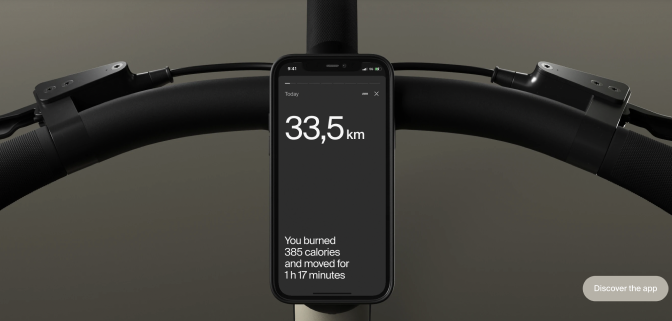
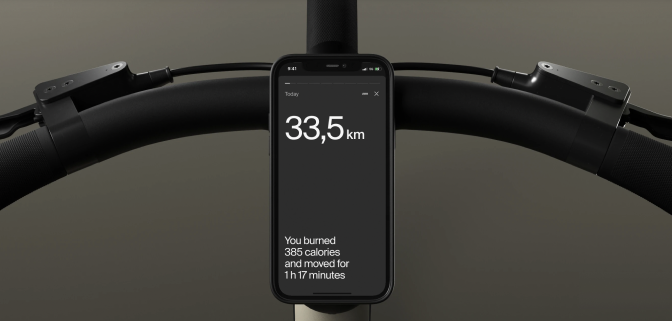
menu background, image, explore button, placeholders fixed

Changed region(s): [[0.8438, 0.8411, 1.0, 0.9657]]

diff --git a/src/index.html b/src/index.html
@@ -79,7 +79,7 @@
       </div>
     </aside>
 
-    <form action="#header" class="page__up-link">
+    <form action="#" class="page__up-link">
       <button type="submit" class="button button-up">
         <img
         src="./images/icons/arrow-up.svg"
@@ -242,7 +242,10 @@
 
               </article>
 
-              <button class="button details__button">Explore</button>
+              <form action="#compare-bikes" class="details__button">
+                <button type="submit" class="button">Explore</button>
+              </form>
+
 
             </div>
 
@@ -262,20 +265,20 @@
                   class="input form__input"
                   type="text"
                   name="name"
-                  placeholder="John"
+                  placeholder="Name"
                   required
                 >
                 <input
                   class="input form__input"
                   type="email"
                   name="email"
-                  placeholder="john@gmail.com"
+                  placeholder="Email"
                   required
                 >
                 <textarea
                   class="input form__input input--message"
                   name="message"
-                  placeholder="I'd like to book a trial ride. Contact me, please."
+                  placeholder="Message"
                   required
                 ></textarea>
 

diff --git a/src/styles/utils/variables.scss b/src/styles/utils/variables.scss
@@ -3,6 +3,6 @@ $desktop-min-width: 1024px;
 
 $main-text-color: #fff;
 $main-dark-color: #1d1d1d;
-$light-background: #e5e5e5;
+$light-background: #c2c2c2;
 $text-grey: #7e7e83;
 $text-dark-grey: #292929;
